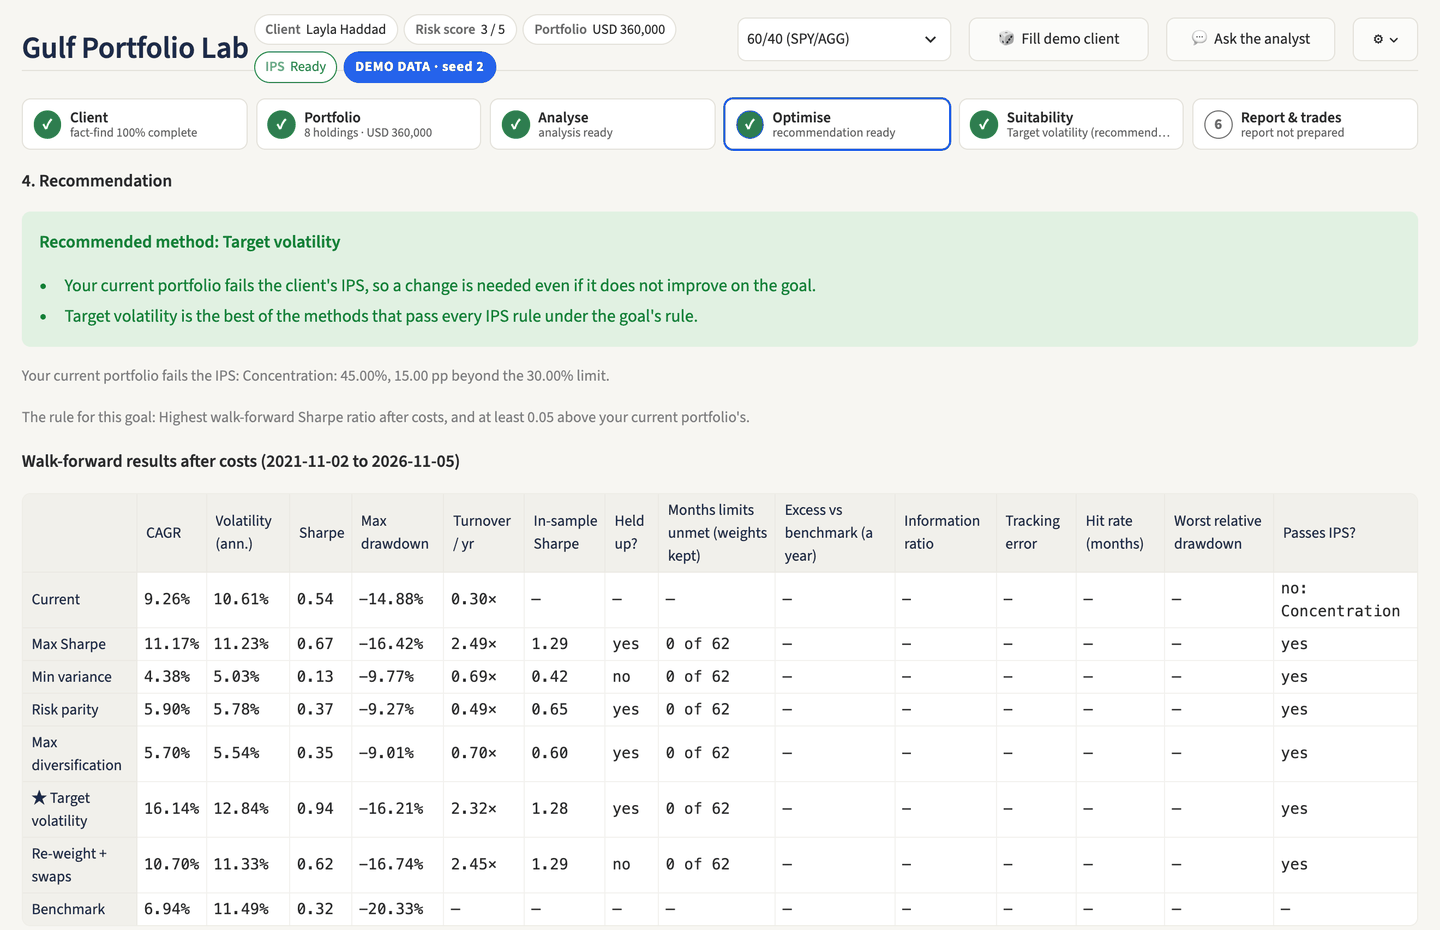
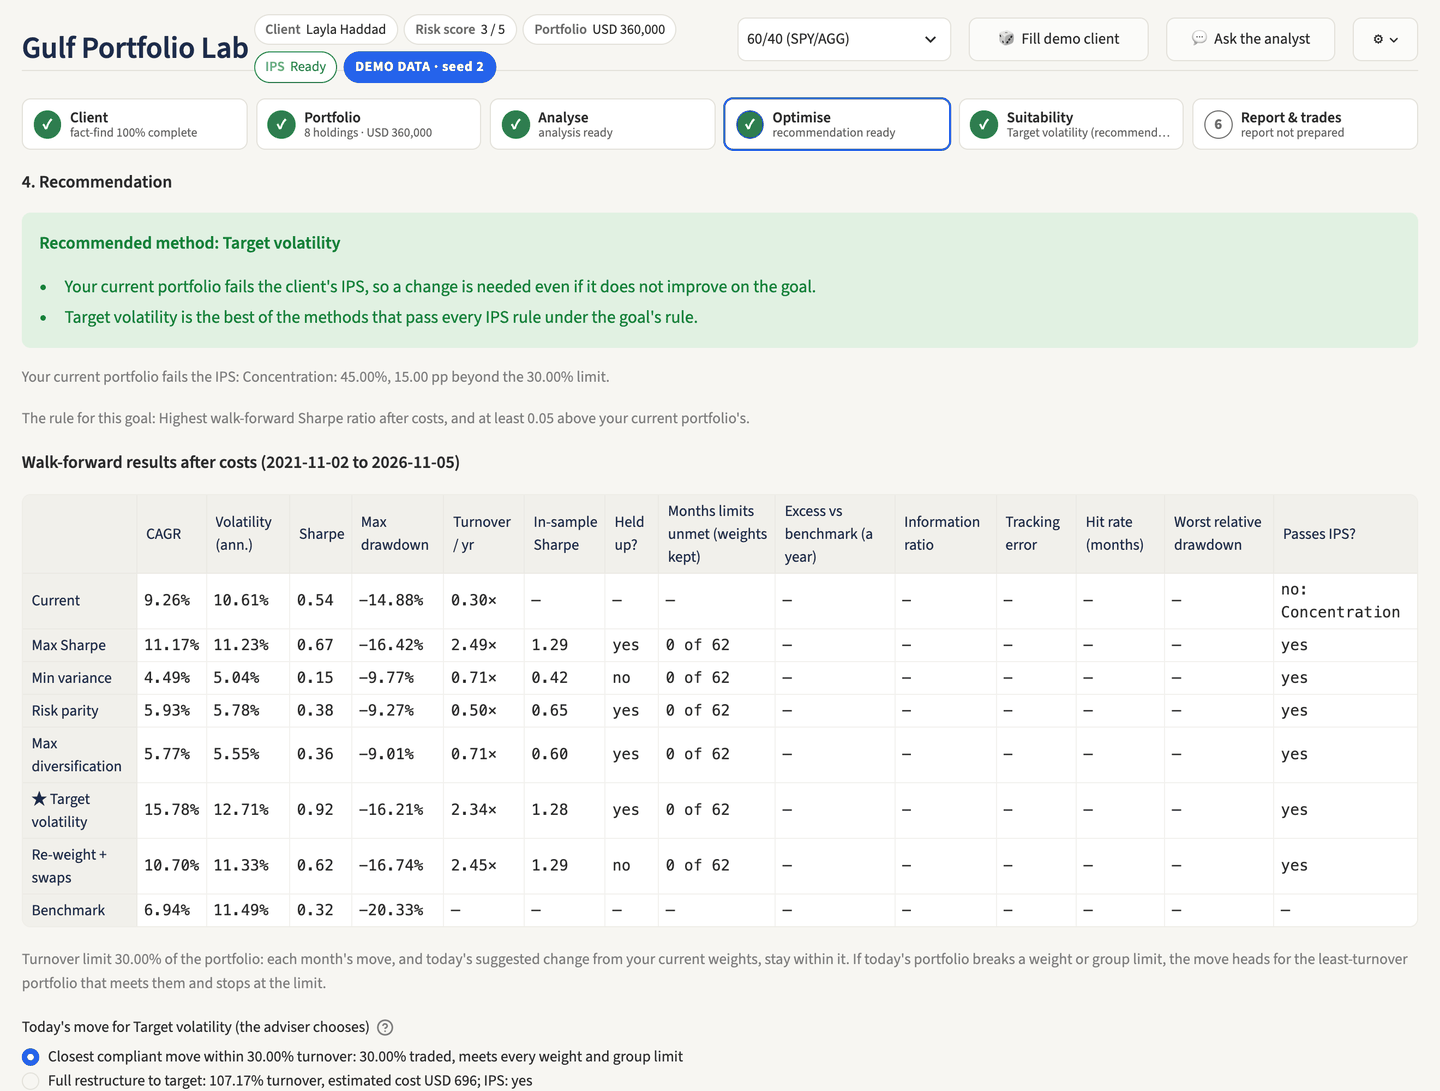
docs: turnover choice and cost rates in README, methodology, screenshots and progress log

diff --git a/docs/METHODOLOGY.md b/docs/METHODOLOGY.md
@@ -101,11 +101,20 @@ mix, or a few explained swaps, would have done better.
 - **Re-weighting**: max Sharpe, min variance, risk parity, max diversification and target
   volatility, each within the IPS and the form's limits, re-optimised monthly on the trailing
   window (Ledoit-Wolf covariance), after costs.
-- **Turnover limit** (30% of the portfolio, editable): each month's move, and today's suggested
-  change, go part-way from the current weights to the target until turnover is within the limit
-  (`construct.limit_turnover`). Because every limit is linear or convex, every point on that line
-  is feasible when both ends are. Limits come first: if today's portfolio breaks an IPS limit, the
-  move needed to meet it is made even when it is larger, and the app says so.
+- **Turnover limit** (30% of the portfolio, editable), kept by default: each month's move, and
+  today's suggested change, stay within it (`construct.compliant_move`).
+  - If the current weights meet every weight and group limit, the move goes part-way from the
+    current weights to the method's target. Every limit is linear or convex, so every point on
+    that line meets them too.
+  - If the current weights break one (e.g. a holding over the cap), a linear program finds the
+    least-turnover portfolio that meets them all. If that is within the limit, the move goes
+    there and spends the rest of the limit heading for the target. If not, it goes as far
+    towards it as the limit allows, and the app shows what still breaks. Example: 50% in one
+    holding with a 40% cap needs a turnover of 0.20, so a 0.10 limit gets half way, to 45%.
+  - **The adviser chooses** between this *closest compliant move within 30% turnover* (the
+    default) and a *full restructure to target*, shown with its turnover, its estimated cost at
+    each market's rate and its IPS result. The choice feeds the suitability checks, the trade
+    list and the client report. The walk-forward results are for the turnover-limited path.
 - **Swaps** (up to 3, from the curated universe, trailing data only): rule-based, each with a
   written reason. *Duplicates*: two holdings whose weekly returns correlate 0.95 or more (or a
   UCITS fund and the US fund it mirrors): sell the one with the lower risk-adjusted return and
@@ -307,7 +316,7 @@ walk-forward 3 Oct 2016 – 30 Sep 2026, after costs, against 60/40):
   20 goal-and-portfolio checks it changed only these near-ties; larger gains (e.g. +0.20 of
   Sharpe with NVDA in the portfolio) are still recommended.
 
-**Testing.** 936 tests (`pytest`), run on every push by GitHub Actions, most with expected values small enough to check by hand. They
+**Testing.** 942 tests (`pytest`), run on every push by GitHub Actions, most with expected values small enough to check by hand. They
 include property tests (no optimiser output exceeds the weight cap across random problems; features
 and labels don't change when the future changes) and headless dashboard tests with synthetic data and
 a scripted fake model, so the suite never touches the network.
@@ -322,10 +331,11 @@ a scripted fake model, so the suite never touches the network.
   with US funds), so samples are shorter and noisier. Tilts are simple price-based scores, not
   a factor model. The "held up" test needs an in-sample Sharpe from a full-sample build; when
   that build can't meet the limits, the candidate counts as not held up.
-- **Turnover limit when limits bind.** If today's portfolio breaks an IPS limit, the turnover limit
-  gives way, and because the move runs along the line to the target, it can trade the whole way
-  (e.g. 107% of the portfolio in the demo screenshot) rather than the least needed to meet the
-  limit. The app states the turnover in each case.
+- **Turnover limit when limits bind.** The default move keeps the turnover limit, so a portfolio
+  that breaks the IPS can stay outside it for a few months while it moves towards compliance.
+  Only weight, group and cash limits are in the linear program; volatility and drawdown are
+  checked afterwards by the suitability rules. The full-restructure cost is an estimate at flat
+  per-market rates.
 - **Adviser tools are decision support, not advice.** The risk bands (e.g. band 3: 12%
   volatility, 20% drawdown, 30% in one holding) are judgement defaults, not calibrated to client
   outcomes. The required return (income ÷ investable assets after cash set aside, plus inflation)

diff --git a/README.md b/README.md
@@ -23,7 +23,9 @@ shows its labelled fallback and says it does not beat the benchmark.
 ![Build mode: recommendation and walk-forward results against the benchmark](docs/screenshots/build-result.png)
 
 **Improve my current portfolio:** the current portfolio breaks the IPS concentration limit, so the
-rule recommends the best method that passes every rule.
+rule recommends the best method that passes every rule. By default the move stays within the 30%
+turnover limit; the adviser can choose a full restructure instead, shown with its turnover and
+estimated cost.
 
 ![Improve mode: recommendation box and walk-forward results after costs](docs/screenshots/optimise-recommendation.png)
 
@@ -44,7 +46,10 @@ rule recommends the best method that passes every rule.
    to keep the current portfolio. Build also suggests a policy benchmark that itself fits the IPS.
 2. **Improve my current portfolio.** Five re-weighting methods (max Sharpe, min variance, risk
    parity, max diversification, target volatility) plus up to three rule-based swaps, each with
-   its reason, under a 30% turnover limit. It recommends a change only if it passes the IPS and
+   its reason, under a 30% turnover limit. If the current portfolio breaks the IPS, the default
+   is the closest compliant move within that limit, and the adviser can choose a full
+   restructure instead, shown with its turnover and cost. It recommends a change only if it
+   passes the IPS and
    beats the current portfolio's walk-forward Sharpe ratio by at least 0.05. UCITS domicile ideas
    are shown separately, as information, not tax advice.
 3. **A wealth manager's workflow in six steps.** It runs from Client to Portfolio, Analyse,
@@ -157,8 +162,7 @@ found and fixed.
 - GCC-specific stress features (oil, local market volatility).
 - Verified Sharia screening from a recognised data provider (AAOIFI-style financial ratios) in
   place of the curated list.
-- Black-Litterman with a GCC view; CVaR optimisation; a minimum-turnover move to meet the IPS when
-  the current portfolio breaks it.
+- Black-Litterman with a GCC view; CVaR optimisation.
 - An evaluation set for the analyst (does every memo cite every number?).
 
 ## Run it locally
@@ -168,7 +172,7 @@ git clone https://github.com/omarnaser16/gulf-portfolio-lab.git && cd gulf-portf
 python3.14 -m venv .venv && source .venv/bin/activate
 pip install -e ".[dev]"
 cp .env.example .env            # then add your ANTHROPIC_API_KEY (only needed for the AI features)
-pytest -q                       # 936 tests, no network needed
+pytest -q                       # 942 tests, no network needed
 streamlit run app/streamlit_app.py
 ```
 

diff --git a/docs/PROGRESS.md b/docs/PROGRESS.md
@@ -578,3 +578,32 @@ days; the work itself was done in a series of sessions.
 - **Status:** 936 tests passing.
 - **Next:** decide on the three findings above; push, so the CI badge runs; deploy and add the
   live URL.
+
+## Turnover choice and real cost rates — 2026-11-06
+- **Directed:** I asked for two of the three issues found while taking screenshots to be fixed,
+  and left the "held up" rule as it is.
+  - The report's trade summary must show the cost rate each market actually charges.
+  - When the current portfolio breaks the IPS, the turnover limit stays by default, as the
+    "closest compliant move within 30% turnover". A "full restructure to target" option shows
+    its turnover and cost, and the adviser chooses.
+- **Built by Claude Code:**
+  - Each trade now carries its market's rate: on screen, in the CSV and in the report (a "Cost
+    rate" column). The summary reads e.g. "10 bps on SPY, AGG…; 30 bps on 2222.SR, QNBK.QA;
+    35 bps on EMAAR.AE" instead of a blanket "10 basis points".
+  - `construct.compliant_move`: a linear program finds the least-turnover portfolio that meets
+    every weight, group and cash limit; ties go to the one closest to the method's target. If
+    it is within the limit, the move goes there and spends the rest heading for the target. If
+    not, it goes as far as the limit allows. The walk-forward history follows the same rule
+    month by month. The old "limits come first" move is gone.
+  - The app adds a choice under the recommendation (closest compliant move, or full
+    restructure with turnover, estimated cost at each market's rate, and IPS result). The
+    choice feeds the proposal, suitability, trades and the client report; the report also
+    says when a full restructure was available.
+- **Effect on results:** in the seed-2 demo, Target volatility now moves 30% (SPY 45% → 30%,
+  Aramco +15 pp), where before it traded 107%. Its walk-forward Sharpe is 0.92 (was 0.94).
+  The full restructure is offered at 107.17% turnover and about USD 696. Dubai is unchanged:
+  target volatility, 0.73 vs 0.66, because that portfolio already meets its limits.
+- **Learned:** with several portfolios at the same least turnover, a solver picks a corner at
+  random (the first version moved the sold 15% into KSA). A tiny second objective, distance to
+  the target, makes the move sensible and deterministic.
+- **Status:** 942 tests passing.
